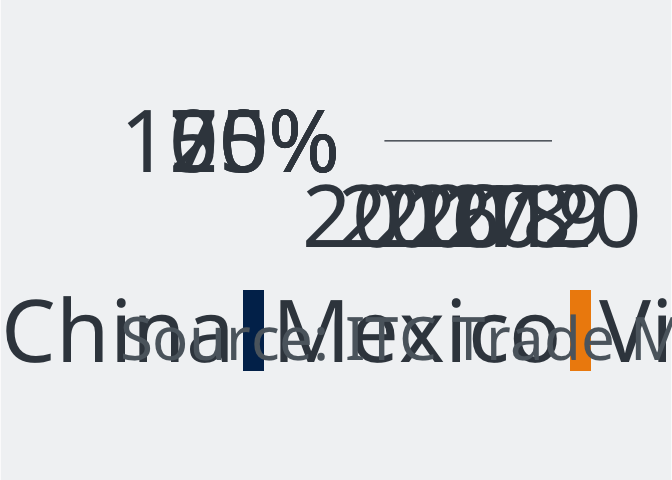
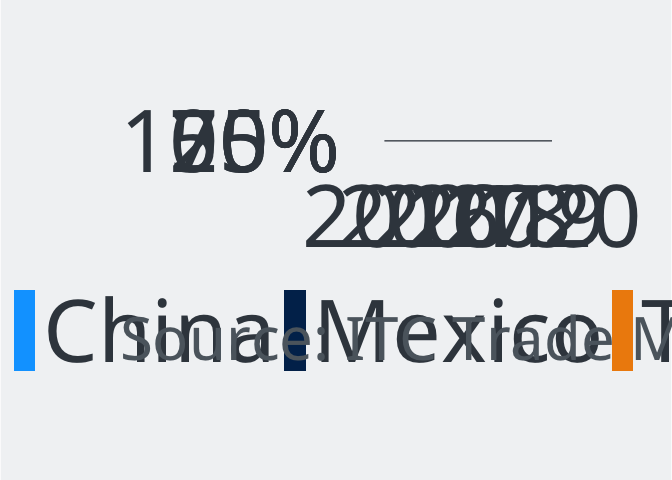
include final graphics in README

Changed region(s): [[0.0, 0.5938, 0.75, 0.7812], [0.8125, 0.5938, 1.0, 0.7812]]

diff --git a/README.md b/README.md
@@ -26,8 +26,8 @@ the story that came out of this analysis.*
 **Read the full article on DW.com:** [English](https://www.dw.com/a-xxx)
 | [German](https://www.dw.com/a-xxx)
 
-**Story by:** [Kira Schacht](https://twitter.com/daten_drang), Christine
-Laskowski
+**Story by:** [Kira Schacht](https://twitter.com/daten_drang),
+[Christine Laskowski](https://twitter.com/laskowski_c)
 
 # Data sources
 
@@ -184,8 +184,8 @@ more during the pandemic.
 ![](trade-dispute_files/figure-gfm/unnamed-chunk-6-1.png)<!-- -->
 
 **in percent (market share)**
-![](trade-dispute_files/figure-gfm/unnamed-chunk-7-1.png)<!-- -->
-![](graphics/final/png/xxx)
+
+![](graphics/final/png/185_en_trade-dispute_china_imports.png)
 
 #### Decrease between 2017 and 2019
 
@@ -202,7 +202,7 @@ a loss of around USD bn per year.
 
 ![](trade-dispute_files/figure-gfm/unnamed-chunk-13-1.png)<!-- -->
 
-![](trade-dispute_files/figure-gfm/unnamed-chunk-14-1.png)<!-- -->
+![](graphics/final/png/184_en_trade-dispute_china_products.png)
 
 ### 1.4 What share of Chinese products is tariffed?
 
@@ -413,7 +413,7 @@ phones (USD 1.5bn) have gained the most overall.
 
 Vietnam, Mexico and Taiwan have gained the most overall.
 
-![](trade-dispute_files/figure-gfm/unnamed-chunk-28-1.png)<!-- -->
+![](graphics/final/png/186_en_trade-dispute_winners_gains.png)
 
 #### scale by GDP
 
@@ -436,24 +436,24 @@ GDP.
 
 ## 4\. Market share changes by country
 
-### South-East Asia: Beneficiary countries who have kept their gains during the pandemic
+### Southeast Asia: Beneficiary countries who have kept their gains during the pandemic
 
-![](trade-dispute_files/figure-gfm/unnamed-chunk-30-1.png)<!-- -->
+![](graphics/final/png/189_en_trade-dispute_marketshare_winners.png)
 
 ### Others: Beneficiary countries who have not kept their gains
 
-![](trade-dispute_files/figure-gfm/unnamed-chunk-31-1.png)<!-- -->
+![](graphics/final/png/188_en_trade-dispute_marketshare_mexico.png)
 
 ## 5\. Market share changes by product
 
 ### computers market share
 
-![](trade-dispute_files/figure-gfm/unnamed-chunk-32-1.png)<!-- -->
+![](graphics/final/png/187_en_trade-dispute_marketshare_computers.png)
 
 ### bubble chart: import value changes by country and product
 
 ![](trade-dispute_files/figure-gfm/unnamed-chunk-33-1.png)<!-- -->![](trade-dispute_files/figure-gfm/unnamed-chunk-33-2.png)<!-- -->
 
-![](trade-dispute_files/figure-gfm/unnamed-chunk-34-1.png)<!-- -->
+![](graphics/final/png/190_en_trade-dispute_product_bubbles.png)
 
-![](trade-dispute_files/figure-gfm/unnamed-chunk-35-1.png)<!-- -->
+![](graphics/final/png/194_en_trade-dispute_product_bubbles_mexico.png)
